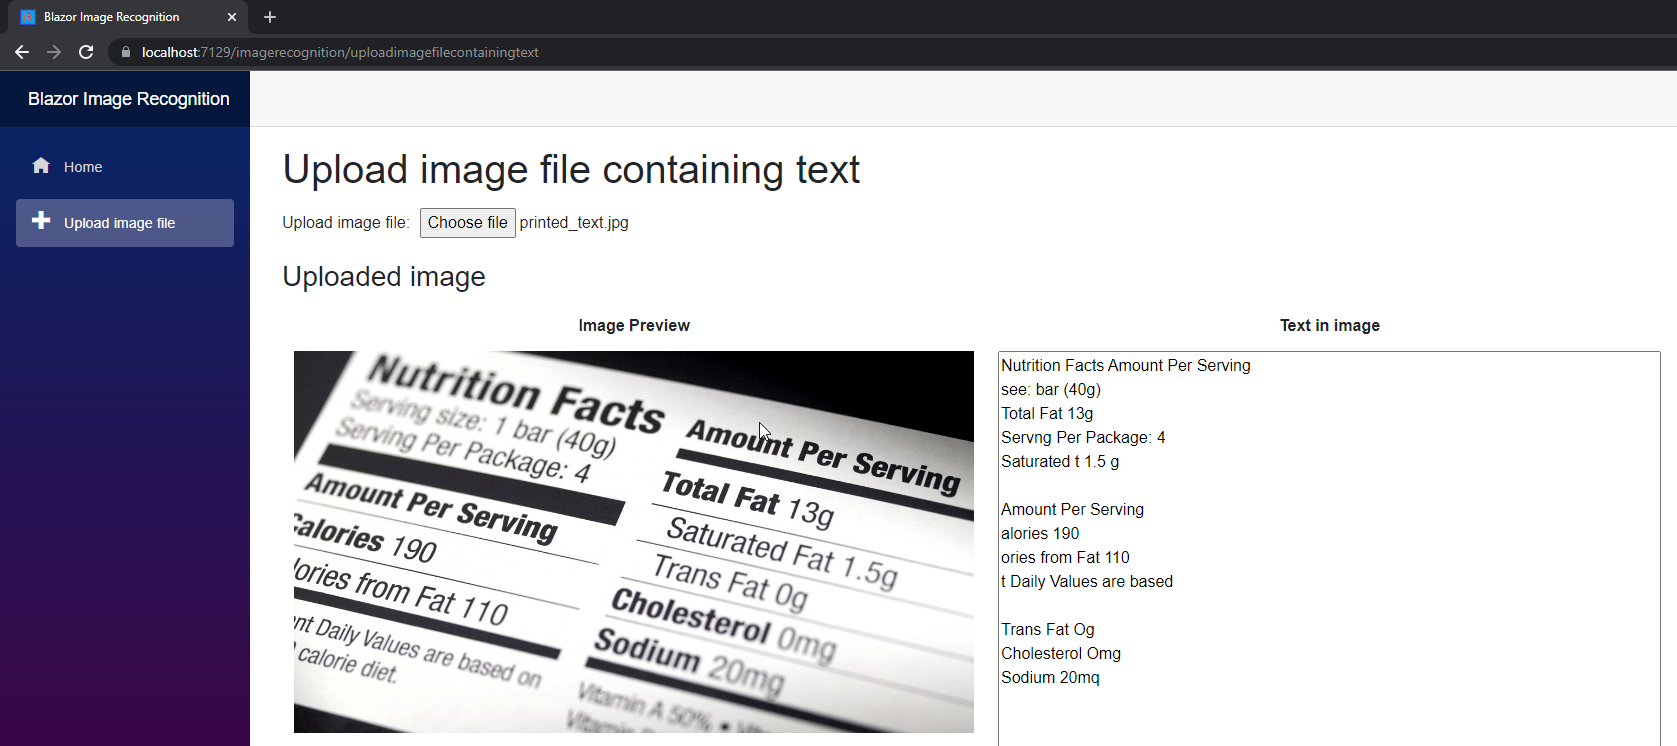
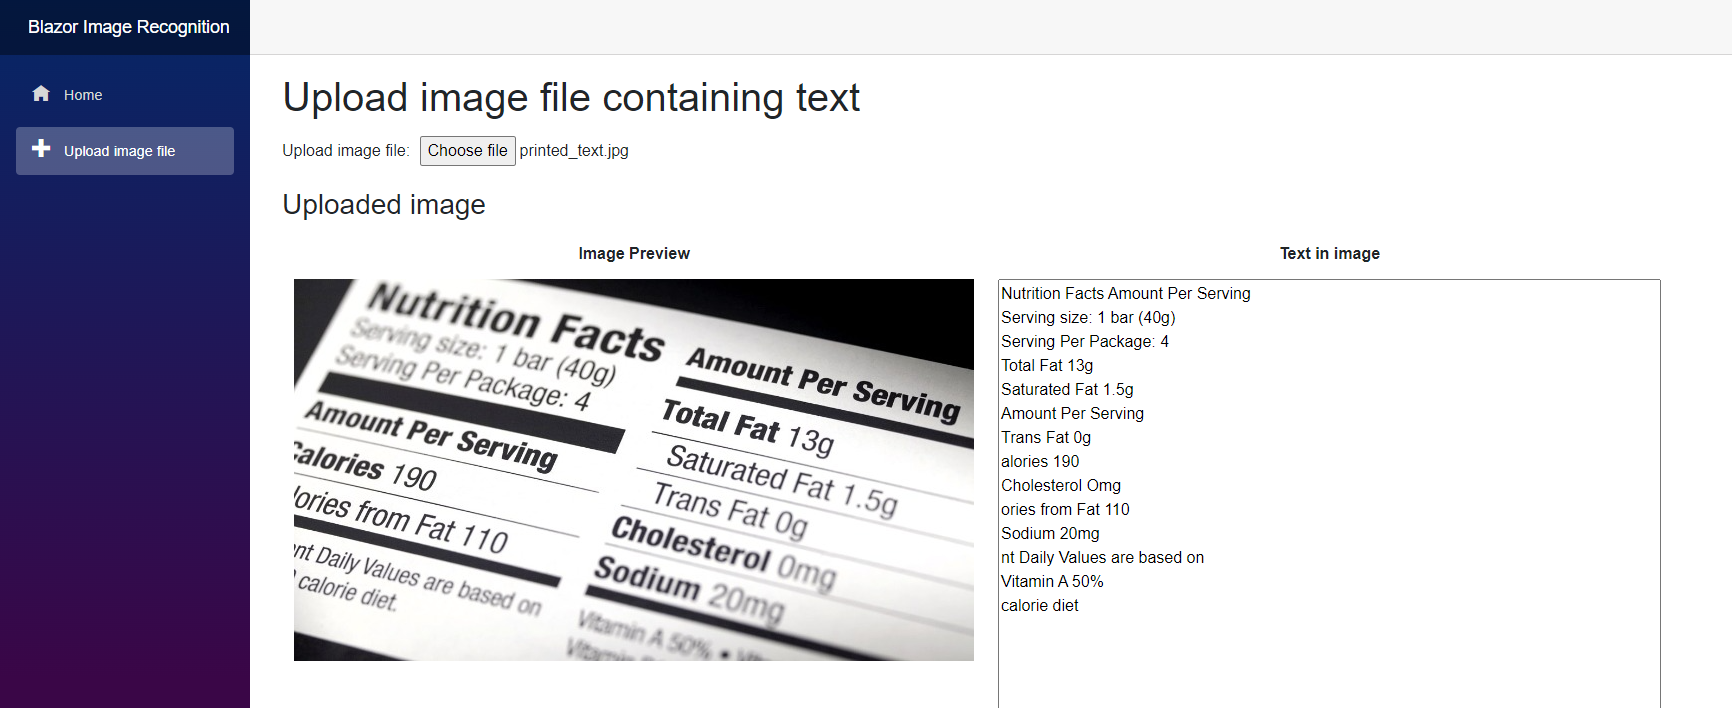
Upgrade to New Azure OCR Read From Stream Function

diff --git a/ImagePrintedTextRecognitionEngine/ImagePrintedTextRecognitionService.cs b/ImagePrintedTextRecognitionEngine/ImagePrintedTextRecognitionService.cs
@@ -26,14 +26,23 @@ namespace ImageRecognitionEngine
         {
             try
             {
-                var computerVision = new ComputerVisionClient(new ApiKeyServiceClientCredentials(imageRecognitionInput.SubscriptionKey))
+                var client = new ComputerVisionClient(new ApiKeyServiceClientCredentials(imageRecognitionInput.SubscriptionKey))
                 {
                     Endpoint = imageRecognitionInput.AzureEndpointURL,
                 };
 
-                OcrResult printedTextAnalysis = await computerVision.RecognizePrintedTextInStreamAsync(true, imageRecognitionInput.UploadImageFileStream);
+                var result = await GetReadResultsFromStream(client, imageRecognitionInput);
 
-                string printedTextInImage = GetPrintedTextOutput(printedTextAnalysis);
+                if(result.Status != OperationStatusCodes.Succeeded)
+                {
+                    return new ImageRecognitionOutput()
+                    {
+                        IsSuccesful = false,
+                        PrintedTextInImage = string.Empty,
+                    };
+                }
+
+                string printedTextInImage = GetPrintedTextOutput(result.AnalyzeResult.ReadResults);
 
                 return new ImageRecognitionOutput()
                 {
@@ -51,18 +60,37 @@ namespace ImageRecognitionEngine
             }
         }
 
-        private string GetPrintedTextOutput(OcrResult analysis)
+        private async Task<ReadOperationResult> GetReadResultsFromStream(ComputerVisionClient client, ImageRecognitionInput imageRecognitionInput)
+        {
+            var textHeaders = await client.ReadInStreamAsync(imageRecognitionInput.UploadImageFileStream);
+
+            string operationLocation = textHeaders.OperationLocation;
+
+            const int numberOfCharsInOperationId = 36;
+            string operationId = operationLocation.Substring(operationLocation.Length - numberOfCharsInOperationId);
+
+            ReadOperationResult result;
+
+            do
+            {
+                result = await client.GetReadResultAsync(Guid.Parse(operationId));
+            }
+            while ((result.Status == OperationStatusCodes.Running ||
+                result.Status == OperationStatusCodes.NotStarted));
+
+            return result;
+        }
+
+        private string GetPrintedTextOutput(IList<ReadResult> textUrlFileResults)
         {
             string printedTextInImage = string.Empty;
 
-            foreach (var region in analysis.Regions)
+            foreach (ReadResult page in textUrlFileResults)
             {
-                foreach (var line in region.Lines)
+                foreach (Line line in page.Lines)
                 {
-                    printedTextInImage += $"{string.Join(" ", line.Words.Select(x => x.Text).ToList())}\n";
+                    printedTextInImage += $"{line.Text}\n";
                 }
-
-                printedTextInImage += "\n";
             }
 
             return printedTextInImage;

diff --git a/ImagePrintedTextRecognitionUnitTests/ImagePrintedTextRecognitionServiceTest.cs b/ImagePrintedTextRecognitionUnitTests/ImagePrintedTextRecognitionServiceTest.cs
@@ -41,19 +41,19 @@ namespace ImagePrintedTextRecognitionUnitTests
                     var imageRecognitionOutput = await imagePrintedTextRecognitionService.UploadFileAndConvertToText(imageRecognitionInput);
 
                     string testPrintedTextOutput = @"Nutrition Facts Amount Per Serving
-see: bar (40g)
+Serving size: 1 bar (40g)
+Serving Per Package: 4
 Total Fat 13g
-Servng Per Package: 4
-Saturated t 1.5 g
-
+Saturated Fat 1.5g
 Amount Per Serving
+Trans Fat 0g
 alories 190
-ories from Fat 110
-t Daily Values are based
-
-Trans Fat Og
 Cholesterol Omg
-Sodium 20mq";
+ories from Fat 110
+Sodium 20mg
+nt Daily Values are based on
+Vitamin A 50%
+calorie diet";
 
                     Assert.IsNotNull(imageRecognitionOutput);
                     Assert.IsTrue(imageRecognitionOutput.IsSuccesful);

diff --git a/README.md b/README.md
@@ -4,7 +4,7 @@ Simple Blazor Server app which uses image recognition to identify and extract te
 
 * GUI frontend project developed using Blazor Server/.Net 6
 * Image printed text recognition engine is a class library project developed using .Net 6
-   * Communicates with the Azure Computer Vision Cognitive Service 7
+   * Communicates with the Azure Computer Vision API v3.2
 * Unit Test app which unit tests the image printed text recognition engine.  Uses MS Test .Net 6.
 
 ## Upload image file to analyse
